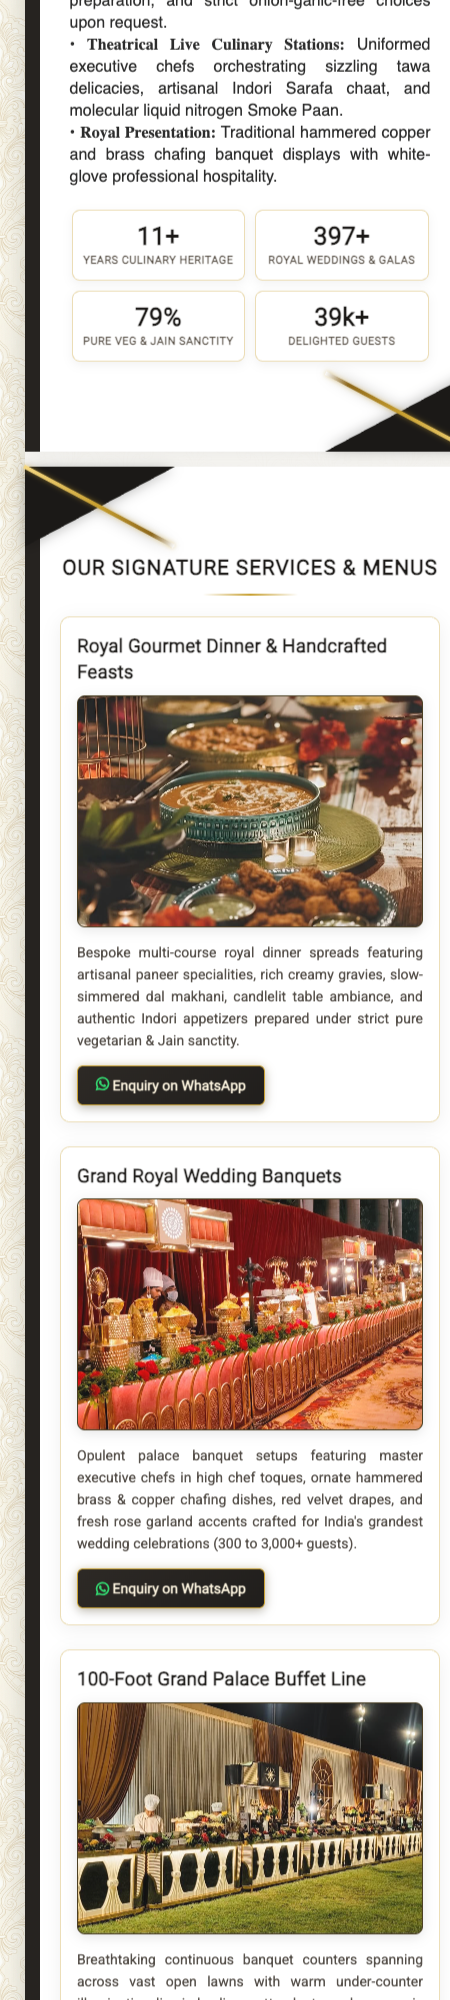
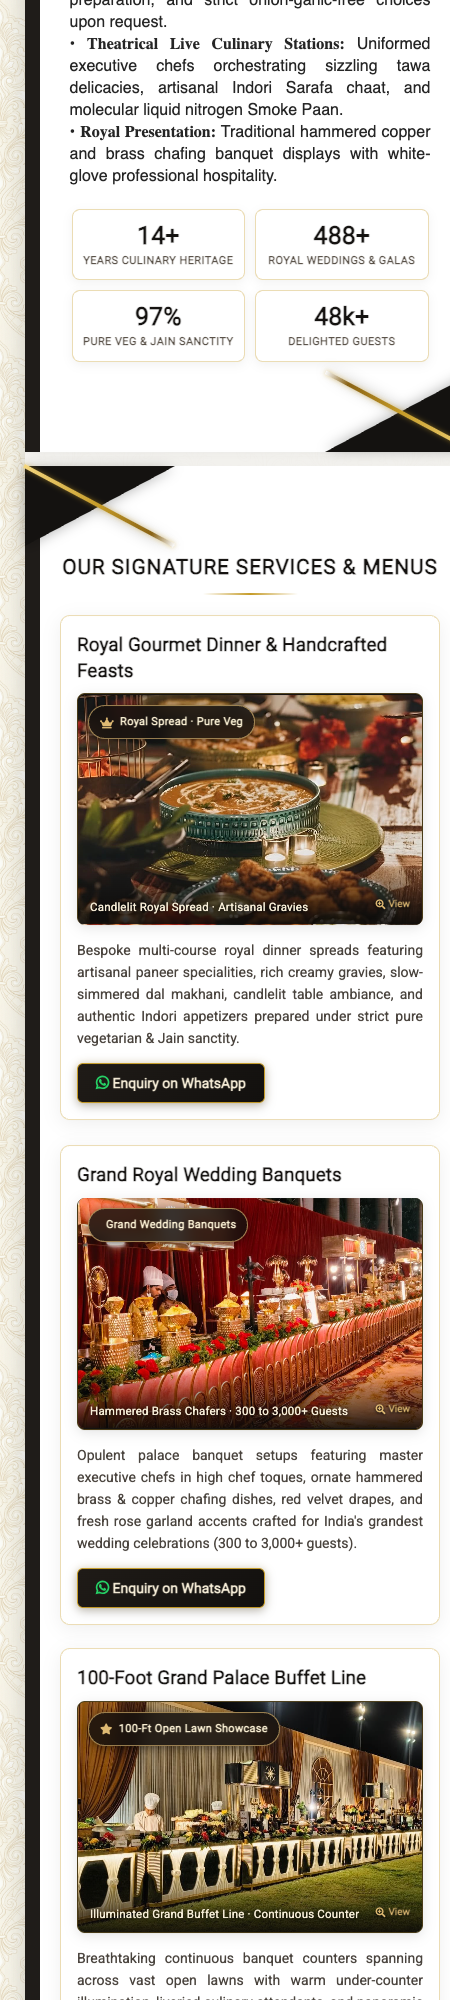
feat: add luxury glassmorphic floating badges and illuminated captions to all 10 service images

diff --git a/index.html b/index.html
@@ -346,13 +346,13 @@
             transform: translateY(0);
         }
 
-        /* 5. Food & Banquet Image Motion */
+        /* 5. Food & Banquet Image Motion & Glassmorphic Overlays */
         .card-img-container {
             overflow: hidden;
             border-radius: 8px;
             margin-bottom: 14px;
             background: #141210;
-            border: 1px solid rgba(197, 155, 39, 0.25);
+            border: 1px solid rgba(197, 155, 39, 0.3);
             box-shadow: 0 3px 12px rgba(0, 0, 0, 0.1);
             position: relative;
             cursor: pointer;
@@ -367,6 +367,67 @@
         }
         .card:hover .card-img-container img {
             transform: scale(1.04);
+        }
+        .card-img-container .img-glass-badge {
+            position: absolute;
+            top: 10px;
+            left: 10px;
+            background: rgba(18, 15, 12, 0.82);
+            backdrop-filter: blur(8px);
+            -webkit-backdrop-filter: blur(8px);
+            border: 1px solid rgba(223, 186, 115, 0.65);
+            color: #fdf3d6;
+            padding: 5px 11px;
+            border-radius: 20px;
+            font-size: 11px;
+            font-weight: 700;
+            letter-spacing: 0.3px;
+            box-shadow: 0 2px 10px rgba(0, 0, 0, 0.5);
+            display: inline-flex;
+            align-items: center;
+            gap: 6px;
+            pointer-events: none;
+            z-index: 2;
+            transition: all 0.25s ease;
+        }
+        .card:hover .card-img-container .img-glass-badge {
+            border-color: #f5d77f;
+            background: rgba(18, 15, 12, 0.92);
+        }
+        .card-img-container .img-overlay-caption {
+            position: absolute;
+            bottom: 0;
+            left: 0;
+            right: 0;
+            padding: 28px 12px 9px;
+            background: linear-gradient(180deg, transparent 0%, rgba(12, 10, 8, 0.9) 100%);
+            color: #ffffff;
+            pointer-events: none;
+            z-index: 2;
+            display: flex;
+            justify-content: space-between;
+            align-items: flex-end;
+            gap: 8px;
+        }
+        .card-img-container .img-overlay-caption .caption-text {
+            color: #f7eed8;
+            font-size: 11.5px;
+            font-weight: 500;
+            line-height: 1.35;
+            font-family: 'Uniform Medium', 'Roboto', sans-serif;
+            letter-spacing: 0.2px;
+            text-shadow: 0 1px 4px rgba(0, 0, 0, 0.85);
+            text-align: left;
+        }
+        .card-img-container .img-overlay-caption .zoom-hint {
+            font-size: 10px;
+            color: #dfba73;
+            white-space: nowrap;
+            font-weight: 600;
+            display: inline-flex;
+            align-items: center;
+            gap: 3px;
+            text-shadow: 0 1px 3px rgba(0, 0, 0, 0.9);
         }
 
         /* 6. High-end Micro-Interactions */
@@ -1961,7 +2022,12 @@ strong, b {
                       <div class='card scroll-reveal'>
                         <h3 class='card-title'>Royal Gourmet Dinner &amp; Handcrafted Feasts</h3>
                         <div class='card-img-container'>
+                          <span class='img-glass-badge'><i class="fas fa-crown" style="color:#dfba73;"></i> Royal Spread · Pure Veg</span>
                           <img onclick='openImageModal(this)' alt='Royal Gourmet Dinner & Handcrafted Feasts' src="images/royal_gourmet_feast.jpeg">
+                          <div class='img-overlay-caption'>
+                            <span class='caption-text'>Candlelit Royal Spread · Artisanal Gravies</span>
+                            <span class='zoom-hint'><i class="fas fa-search-plus"></i> View</span>
+                          </div>
                         </div>
                         <div class='product-description'>
                           <p>Bespoke multi-course royal dinner spreads featuring artisanal paneer specialities, rich creamy gravies, slow-simmered dal makhani, candlelit table ambiance, and authentic Indori appetizers prepared under strict pure vegetarian &amp; Jain sanctity.</p>
@@ -1975,7 +2041,12 @@ strong, b {
                       <div class='card scroll-reveal'>
                         <h3 class='card-title'>Grand Royal Wedding Banquets</h3>
                         <div class='card-img-container'>
+                          <span class='img-glass-badge'><i class="fas fa-ring" style="color:#dfba73;"></i> Grand Wedding Banquets</span>
                           <img onclick='openImageModal(this)' alt='Grand Royal Wedding Banquets' src="images/regal_live_tawa_counter.jpeg">
+                          <div class='img-overlay-caption'>
+                            <span class='caption-text'>Hammered Brass Chafers · 300 to 3,000+ Guests</span>
+                            <span class='zoom-hint'><i class="fas fa-search-plus"></i> View</span>
+                          </div>
                         </div>
                         <div class='product-description'>
                           <p>Opulent palace banquet setups featuring master executive chefs in high chef toques, ornate hammered brass &amp; copper chafing dishes, red velvet drapes, and fresh rose garland accents crafted for India's grandest wedding celebrations (300 to 3,000+ guests).</p>
@@ -1989,7 +2060,12 @@ strong, b {
                       <div class='card scroll-reveal'>
                         <h3 class='card-title'>100-Foot Grand Palace Buffet Line</h3>
                         <div class='card-img-container'>
+                          <span class='img-glass-badge'><i class="fas fa-star" style="color:#dfba73;"></i> 100-Ft Open Lawn Showcase</span>
                           <img onclick='openImageModal(this)' alt='100-Foot Grand Palace Buffet Line' src="images/grand_100ft_banquet_line.jpeg">
+                          <div class='img-overlay-caption'>
+                            <span class='caption-text'>Illuminated Grand Buffet Line · Continuous Counter</span>
+                            <span class='zoom-hint'><i class="fas fa-search-plus"></i> View</span>
+                          </div>
                         </div>
                         <div class='product-description'>
                           <p>Breathtaking continuous banquet counters spanning across vast open lawns with warm under-counter illumination, liveried culinary attendants, and panoramic selections of Indian, Continental, and regional delicacies.</p>
@@ -2003,7 +2079,12 @@ strong, b {
                       <div class='card scroll-reveal'>
                         <h3 class='card-title'>Royal Victorian Carriage Buffet</h3>
                         <div class='card-img-container'>
+                          <span class='img-glass-badge'><i class="fas fa-gem" style="color:#dfba73;"></i> Victorian Golden Carriage</span>
                           <img onclick='openImageModal(this)' alt='Royal Victorian Carriage Buffet' src="images/victorian_carriage_buffet.jpeg">
+                          <div class='img-overlay-caption'>
+                            <span class='caption-text'>White & Gold Antique Carriage · Floral Accents</span>
+                            <span class='zoom-hint'><i class="fas fa-search-plus"></i> View</span>
+                          </div>
                         </div>
                         <div class='product-description'>
                           <p>Signature antique white &amp; gold Victorian carriage banquet displays accented with lush cascading floral runners, live hot chafers, and golden tableware for prestigious outdoor wedding banquets.</p>
@@ -2017,7 +2098,12 @@ strong, b {
                       <div class='card scroll-reveal'>
                         <h3 class='card-title'>Luxury Palace Indoor Banquets</h3>
                         <div class='card-img-container'>
+                          <span class='img-glass-badge'><i class="fas fa-landmark" style="color:#dfba73;"></i> Palace Indoor Ballroom</span>
                           <img onclick='openImageModal(this)' alt='Luxury Palace Indoor Banquets' src="images/grand_palace_indoor_banquet.jpeg">
+                          <div class='img-overlay-caption'>
+                            <span class='caption-text'>Velvet Tufted Counters · Ambient Spotlights</span>
+                            <span class='zoom-hint'><i class="fas fa-search-plus"></i> View</span>
+                          </div>
                         </div>
                         <div class='product-description'>
                           <p>Opulent indoor ballroom dining featuring warm velvet tufted counters, golden mirror frames, ambient spotlighting, and fine bone china dinnerware for elite anniversary galas and VIP receptions.</p>
@@ -2031,7 +2117,12 @@ strong, b {
                       <div class='card scroll-reveal'>
                         <h3 class='card-title'>Artisanal Live Pasta &amp; Continental Lounge</h3>
                         <div class='card-img-container'>
+                          <span class='img-glass-badge'><i class="fas fa-utensils" style="color:#dfba73;"></i> Live Italian Pasta Lounge</span>
                           <img onclick='openImageModal(this)' alt='Artisanal Live Pasta & Continental Lounge' src="images/artisanal_live_pasta_station.jpeg">
+                          <div class='img-overlay-caption'>
+                            <span class='caption-text'>Theatrical Live Tossing · Gourmet Sizzling Sauces</span>
+                            <span class='zoom-hint'><i class="fas fa-search-plus"></i> View</span>
+                          </div>
                         </div>
                         <div class='product-description'>
                           <p>Theatrical live Italian station featuring customized handcrafted pastas tossed before your guests, rich sizzling sauces, fresh garden herbs, ornate canopied kiosks, and gold amphora displays.</p>
@@ -2045,7 +2136,12 @@ strong, b {
                       <div class='card scroll-reveal'>
                         <h3 class='card-title'>Colonnade Palace Archway Buffet Line</h3>
                         <div class='card-img-container'>
+                          <span class='img-glass-badge'><i class="fas fa-archway" style="color:#dfba73;"></i> Roman Colonnade Theme</span>
                           <img onclick='openImageModal(this)' alt='Colonnade Palace Archway Buffet Line' src="images/colonnade_archway_buffet.jpeg">
+                          <div class='img-overlay-caption'>
+                            <span class='caption-text'>Classical Pillars & Crystal Lantern Chandeliers</span>
+                            <span class='zoom-hint'><i class="fas fa-search-plus"></i> View</span>
+                          </div>
                         </div>
                         <div class='product-description'>
                           <p>Classical illuminated Greek &amp; Roman colonnade archway counters with crystal lantern chandeliers, ornate warm under-counter lighting, and gleaming golden chafing dish presentations.</p>
@@ -2059,7 +2155,12 @@ strong, b {
                       <div class='card scroll-reveal'>
                         <h3 class='card-title'>Royal Dessert, Mocktail &amp; Canapé Island</h3>
                         <div class='card-img-container'>
+                          <span class='img-glass-badge'><i class="fas fa-cocktail" style="color:#dfba73;"></i> Dessert & Mocktail Island</span>
                           <img onclick='openImageModal(this)' alt='Royal Dessert, Mocktail & Canapé Island' src="images/royal_dessert_canape_island.jpeg">
+                          <div class='img-overlay-caption'>
+                            <span class='caption-text'>Tiered Wooden Pastry Towers & Craft Mocktails</span>
+                            <span class='zoom-hint'><i class="fas fa-search-plus"></i> View</span>
+                          </div>
                         </div>
                         <div class='product-description'>
                           <p>Multi-tiered handcrafted wooden islands presenting artisanal miniature desserts, fresh fruit preserves, layered canapés, craft mocktail shots, and exquisite Indian sweet confections.</p>
@@ -2073,7 +2174,12 @@ strong, b {
                       <div class='card scroll-reveal'>
                         <h3 class='card-title'>Luminous Glass &amp; Botanical Buffet</h3>
                         <div class='card-img-container'>
+                          <span class='img-glass-badge'><i class="fas fa-leaf" style="color:#dfba73;"></i> Botanical Glass Lounge</span>
                           <img onclick='openImageModal(this)' alt='Luminous Glass & Botanical Buffet' src="images/luminous_glass_buffet.jpeg">
+                          <div class='img-overlay-caption'>
+                            <span class='caption-text'>Fluted Glass Counters & Lush Lawn Foliage</span>
+                            <span class='zoom-hint'><i class="fas fa-search-plus"></i> View</span>
+                          </div>
                         </div>
                         <div class='product-description'>
                           <p>Modern illuminated fluted banquet counters with botanical fern foliage, crystal accents, and architectural under-lighting arranged seamlessly on lush manicured lawns.</p>
@@ -2087,7 +2193,12 @@ strong, b {
                       <div class='card scroll-reveal'>
                         <h3 class='card-title'>Impeccably Curated Live Culinary Stations</h3>
                         <div class='card-img-container'>
+                          <span class='img-glass-badge'><i class="fas fa-fire" style="color:#dfba73;"></i> Live Sizzling Tawa Station</span>
                           <img onclick='openImageModal(this)' alt='Impeccably Curated Live Culinary Stations' src="images/curated_culinary_station.jpeg">
+                          <div class='img-overlay-caption'>
+                            <span class='caption-text'>Fresh Tawa Delicacies · Overhead Warm Heat Lamps</span>
+                            <span class='zoom-hint'><i class="fas fa-search-plus"></i> View</span>
+                          </div>
                         </div>
                         <div class='product-description'>
                           <p>Overhead warm heat lamps, artisanal fresh doughs, sizzling tawa delicacies, and pure vegetarian chef-crafted delicacies served piping hot for an effortless dining experience.</p>
